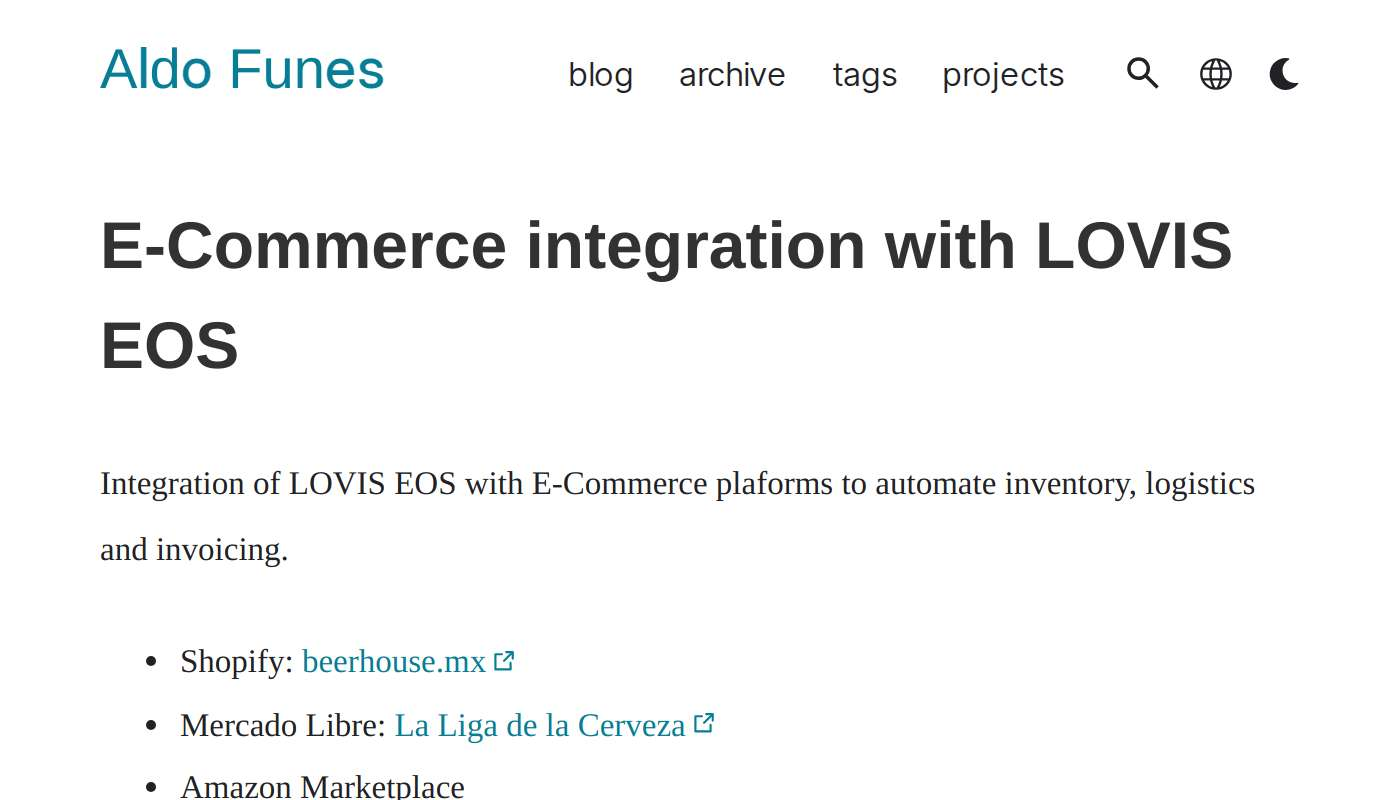
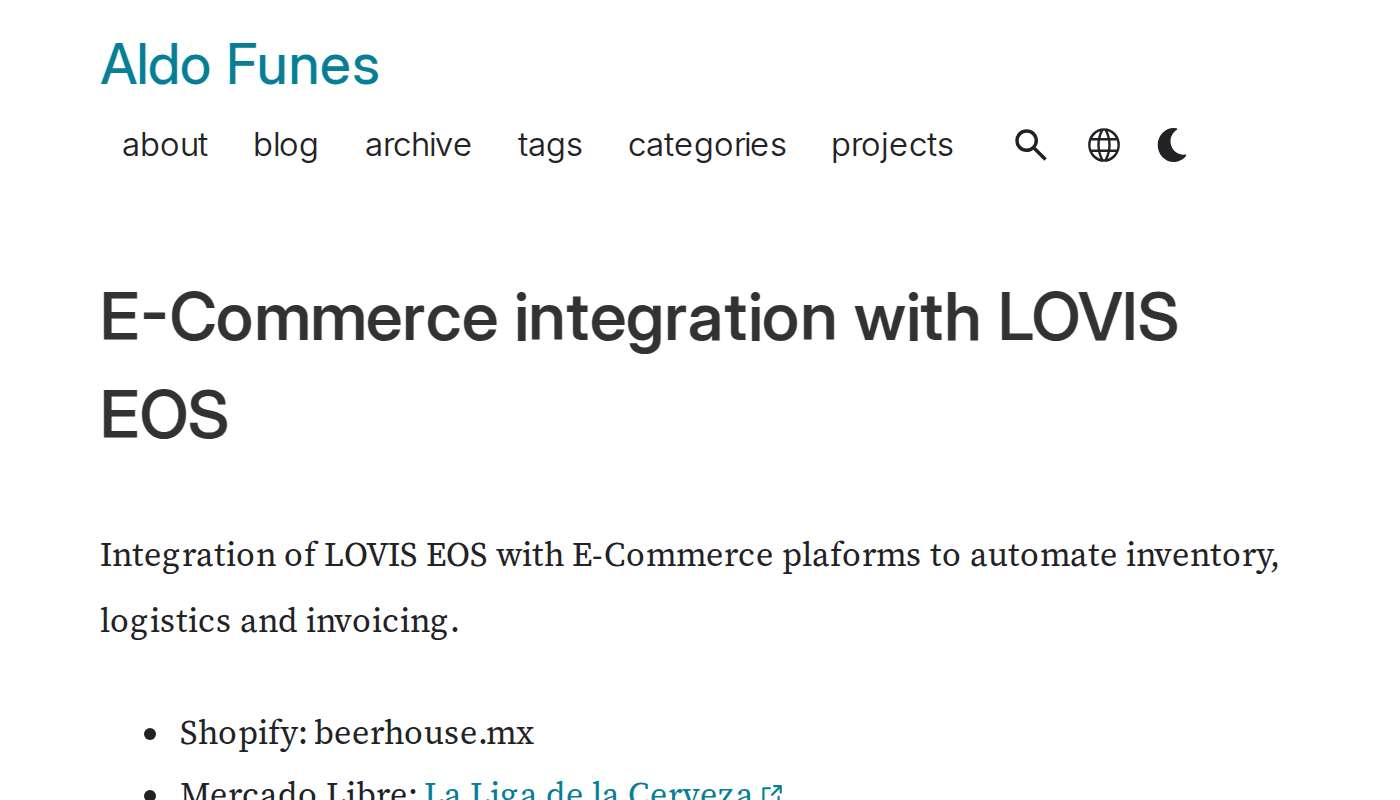
fix: broken link

diff --git a/content/projects/lovls-ecommerce.md b/content/projects/lovls-ecommerce.md
@@ -9,6 +9,6 @@ social_media_card = "img/social_cards/projects_lovls_ecommerce.jpg"
 
 Integration of LOVIS EOS with E-Commerce plaforms to automate inventory, logistics and invoicing.
 
-- Shopify: [beerhouse.mx](https://www.beerhouse.mx/)
+- Shopify: beerhouse.mx
 - Mercado Libre: [La Liga de la Cerveza](https://www.mercadolibre.com.mx/perfil/LALIGADELACERVEZASDERL)
 - Amazon Marketplace
